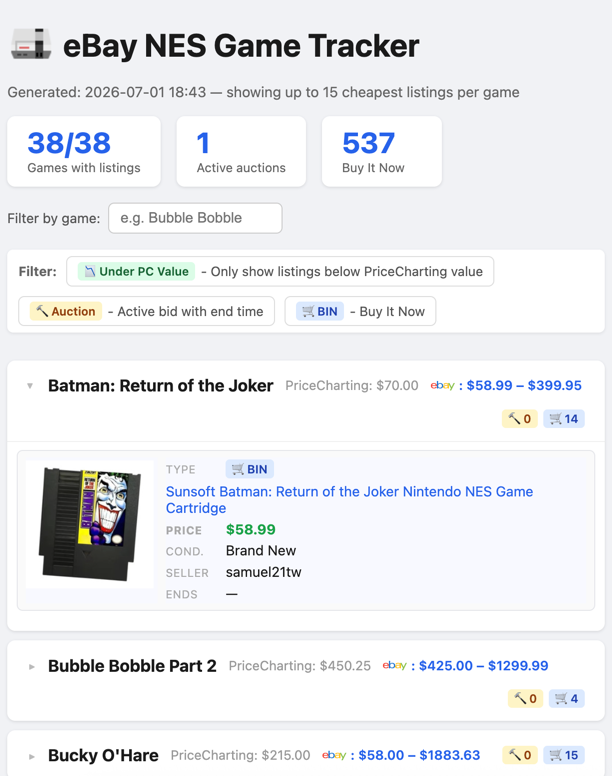
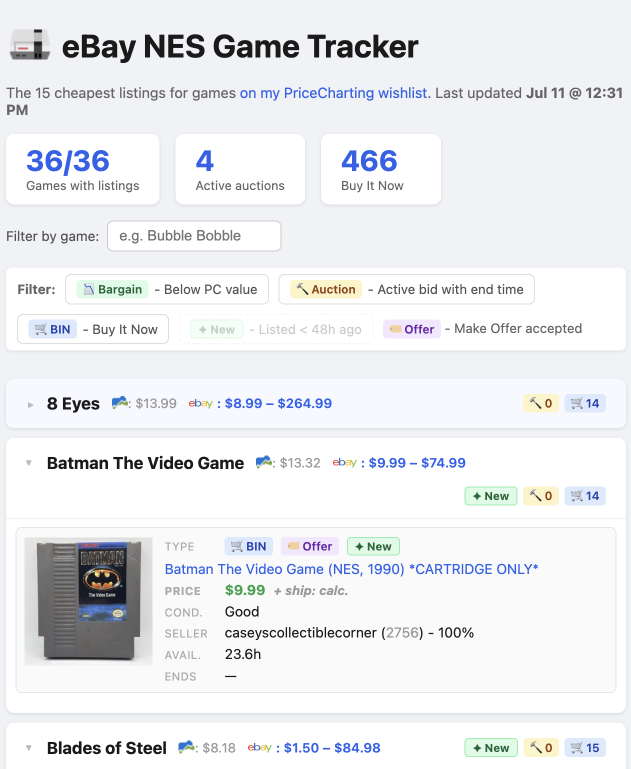
docs: sync CLAUDE.md with recent store.py changes, update screenshot
CLAUDE.md's ON CONFLICT field list was stale after the epid, seller
feedback, and listed_date backfill changes. Also refreshes the
README screenshot to reflect the current report UI.

diff --git a/CLAUDE.md b/CLAUDE.md
@@ -18,11 +18,15 @@ Pipeline, run start-to-finish by `search.py`:
    guides/cases/repro noise). No retry/backoff logic.
 3. **`store.py`** — SQLite (`output/listings.db`). `listings.item_id` is the primary
    key; `ON CONFLICT` only updates `price`, `shipping_price`, `shipping_cost_type`,
-   `has_best_offer`, `bid_count`, `last_seen`, `last_run_id` — NOT `game_name`. If the
-   same eBay item ever matches more than one game's search query, it keeps whichever
-   `game_name` it was first inserted under. `has_best_offer` is derived from whether
-   `"BEST_OFFER"` is in the Browse API's `buyingOptions` for that item (i.e. "Make
-   Offer" is enabled), separate from `buying_option` (AUCTION vs FIXED_PRICE).
+   `has_best_offer`, `bid_count`, `seller_feedback_score`, `seller_feedback_percentage`,
+   `original_price`, `listed_date` (via `COALESCE`, so it's only backfilled if previously
+   NULL — never overwritten), `last_seen`, `last_run_id` — NOT `game_name`, `seller`
+   (username), or `epid`. If the same eBay item ever matches more than one game's search
+   query, it keeps whichever `game_name` it was first inserted under. `has_best_offer` is
+   derived from whether `"BEST_OFFER"` is in the Browse API's `buyingOptions` for that
+   item (i.e. "Make Offer" is enabled), separate from `buying_option` (AUCTION vs
+   FIXED_PRICE). `epid` (eBay product ID) is captured but not currently surfaced in the
+   report.
 4. **`denylist.py`** — filters listings by title before they're stored/reported.
    `GLOBAL_DENYLIST` applies to every search; `PER_GAME_DENYLIST` is keyed by game name
    (case-insensitive) for one-off noise specific to that game's search results. Hard-coded